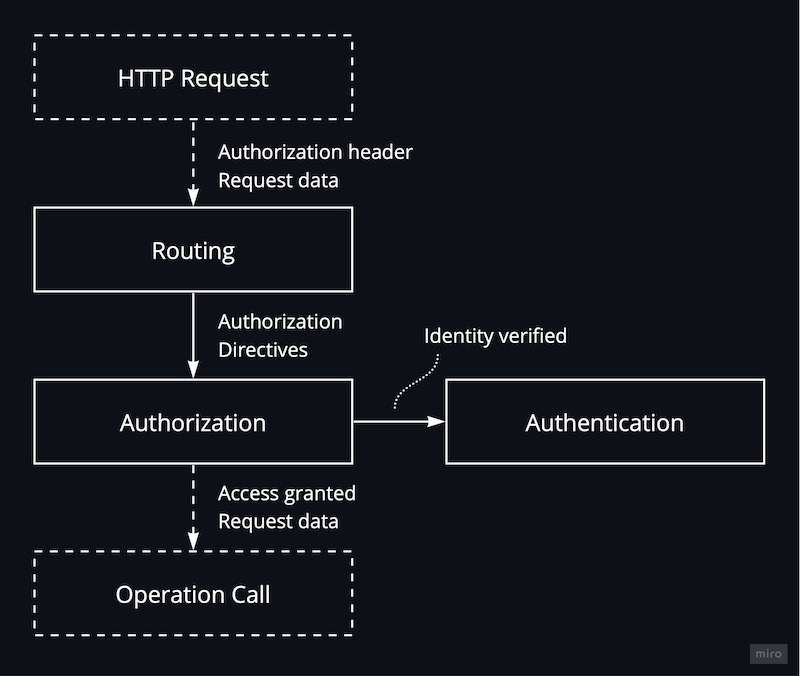
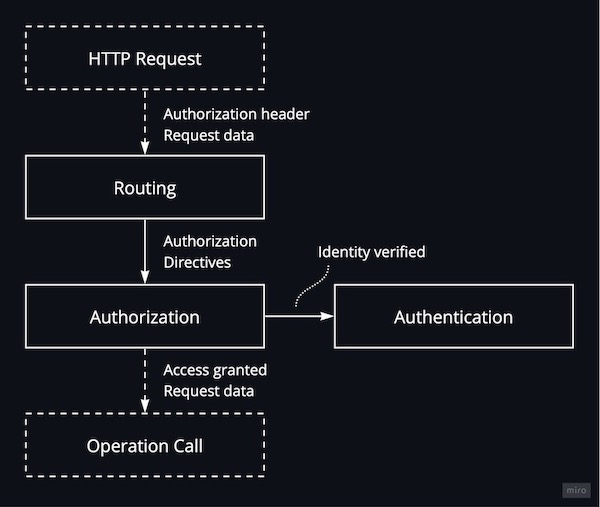
docs(exposition): resize image

diff --git a/extensions/exposition/documentation/access.md b/extensions/exposition/documentation/access.md
@@ -5,7 +5,7 @@
 <a href="">
   <picture>
     <source media="(prefers-color-scheme: dark)" srcset="./.ia3/overview-dark.jpg">
-    <img alt="IA3" width="800" height="676" src="./.ia3/overview-light.jpg">
+    <img alt="IA3" width="600" height="507" src="./.ia3/overview-light.jpg">
   </picture>
 </a>
 
